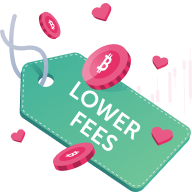
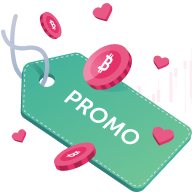
update valentine

diff --git a/src/config/urls.js b/src/config/urls.js
@@ -77,6 +77,8 @@ export const urls = {
       "https://shop.ledger.com/products/ledger-backup-pack?utm_source=ledger_live_mobile&utm_medium=self_referral&utm_content=banner_carousel",
     ledgerAcademy:
       "https://www.ledger.com/academy?utm_source=ledger_live_mobile&utm_medium=self_referral&utm_content=banner_carousel",
+    valentine:
+      "https://shop.ledger.com/pages/valentines-day-special-offers&utm_medium=self_referral&utm_content=banner_carousel",
   },
   compound:
     "https://support.ledger.com/hc/en-us/articles/360017215099?utm_source=ledger_live_mobile&utm_medium=self_referral&utm_content=compound",
